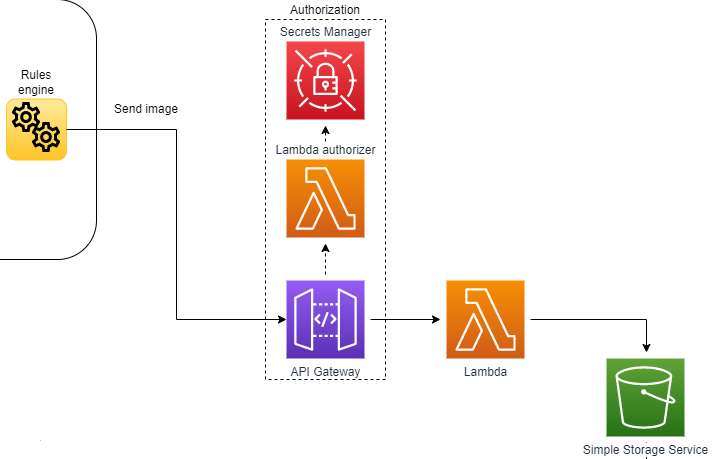
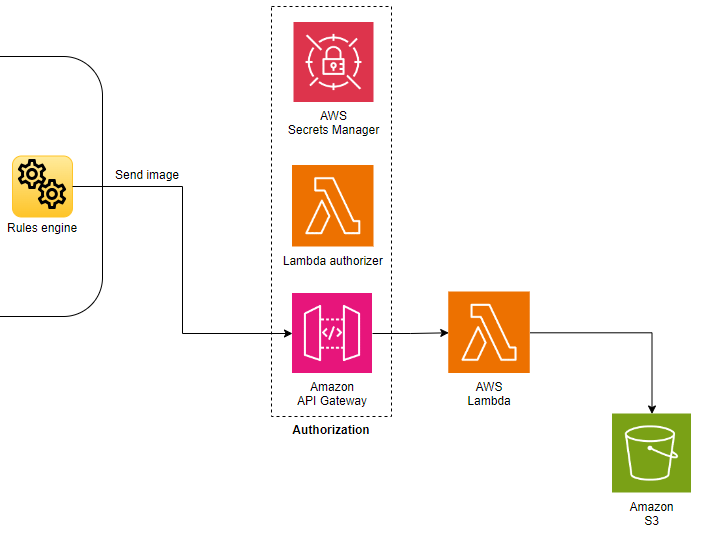
IPR and legal review (#4)
* wip

* wip

* wip

* Add files via upload

wip

* Add files via upload

wip

* Add files via upload

* Add files via upload

---------

diff --git a/README.md b/README.md
@@ -10,9 +10,9 @@
 - [Prerequisites](#prerequisites)
 - [Solution setup](#solution-setup)
     - [Camera image to Amazon S3 bucket](#camera-image-to-amazon-s3-bucket)
-    - [AWS IoT Core (MQTT broker) and MQTT client](#aws-iot-core-mqtt-broker-and-mqtt-client)
-    - [AWS PPE detection (inference)](#aws-ppe-detection-inference)
-    - [AXIS Object Analytics (Camera application) and event setup](#axis-object-analytics-camera-application-and-event-setup)
+    - [AWS IoT Core and MQTT client](#aws-iot-core-and-mqtt-client)
+    - [Amazon Rekognition PPE detection (inference)](#amazon-rekognition-ppe-detection-inference)
+    - [AXIS Object Analytics (camera application) and event setup](#axis-object-analytics-camera-application-and-event-setup)
     - [Strobe siren event and MQTT subscribe](#strobe-siren-event-and-mqtt-subscribe)
 - [Test and validation](#test-and-validation)
 - [Disclaimer](#disclaimer)
@@ -30,9 +30,9 @@ The architectural overview below illustrates the components (hardware and softwa
 
 > **Note**
 >
-> Some components can be replaced to get a solution that fits other use-cases. For example, replace AXIS Object Analytics with another application that triggers when an image should be sent to AWS. Or replace the Axis Strobe Siren with an Axis door station to change the output and result of the solution.
+> Some components can be replaced to get a solution that fits other use-cases. For example, replace AXIS Object Analytics with another application that triggers when an image should be sent to AWS. Or replace the Axis strobe siren with an Axis door station to change the output and result of the solution.
 >
-> Modifying the Lambda function that calls the Amazon Rekognition is also possible if the use case requires other detection types.
+> Modifying the AWS Lambda function that calls the Amazon Rekognition is also possible if the use case requires other detection types.
 
 ![Solution overview](assets/architecture-overview.png)
 
@@ -46,10 +46,10 @@ The architectural overview below illustrates the components (hardware and softwa
 
 The solution is divided into the sections below which will be described in detail during this tutorial.
 
-- Camera image to Amazon Simple Storage Service (S3) bucket
-- AWS IoT Core (MQTT broker) and MQTT client
-- AWS PPE detection (inference)
-- AXIS Object Analytics (Camera application) and event setup
+- Camera image to Amazon Simple Storage Service (Amazon S3) bucket
+- AWS IoT Core, acting as a MQTT broker, and MQTT client
+- Amazon Rekognition PPE detection (inference)
+- AXIS Object Analytics (camera application) and event setup
 - Strobe siren event and MQTT subscribe
 
 ![architecture](assets/architecture.png)\
@@ -59,21 +59,21 @@ The solution is divided into the sections below which will be described in detai
 
 The image below illustrates the upload of a camera image to an Amazon S3 bucket.
 
-![Image upload to amazon S3](assets/aws-image-upload.png)
+![Image upload to Amazon S3](assets/aws-image-upload.png)
 
 How to setup the Amazon S3 and the required peripheral services to handle the authentication is described here: [Sending images from a camera to Amazon S3](https://github.com/AxisCommunications/acap-integration-examples-aws/tree/main/images-to-aws-s3).
 
 > **Note** Follow the instructions up until the section called **Configure the camera**. After that, return back to this tutorial to setup the rest of the solution.
 
-### AWS IoT Core (MQTT broker) and MQTT client
+### AWS IoT Core and MQTT client
 
-In this section we will setup AWS IoT Core and connect it to the MQTT client in the Axis Strobe Siren.
+In this section we will setup AWS IoT Core and connect it to the MQTT client in the Axis strobe siren.
 
 ![AWS IoT Core](assets/aws-iot-core.png)
 
 #### Setup an AWS IoT Core thing
 
-1. Sign in to the [AWS Console](https://aws.amazon.com/console/) and search for **IoT Core**.
+1. Sign in to the [AWS Management Console](https://aws.amazon.com/console/) and search for **IoT Core**.
 2. Go to **Manage** > **All devices** > **Things** and click **Create things**.
 3. Select **Create single thing** and click **Next**.
 4. Enter a unique name and click **Next**.
@@ -94,13 +94,13 @@ In this section we will setup AWS IoT Core and connect it to the MQTT client in 
 8. Download the **Device certificate**, **Public key file**, **Private key file** and the **Root CA certificate**.
 
     ![download aws certificates](assets/aws-download-certificates.png)\
-    *Screenshot from AWS Console*
+    *Screenshot from AWS Management Console*
 
 9. Click **Done**.
 
 #### Setup MQTT client in Axis device
 
-In the Axis device, install the client and CA certificates to enable a secure MQTT connection to the AWS IoT Core MQTT broker:
+In the Axis device, install the client and CA certificates to enable a secure MQTT connection to the AWS IoT Core:
 
 1. Log in to the Axis device and go to **System** > **Security**.
 2. Click **Add certificate**.
@@ -114,7 +114,7 @@ In the Axis device, install the client and CA certificates to enable a secure MQ
 Next, configure the device's MQTT client:
 
 1. In the Axis device go to **System** > **MQTT**.
-2. In the **Host** field, enter the hostname for the AWS IoT Core MQTT broker. You can find the hostname (endpoint) to the MQTT broker in the AWS Console under **IoT Core** > **Settings**.
+2. In the **Host** field, enter the hostname for AWS IoT Core. You can find the hostname (device data endpoint) in the AWS Management Console under **IoT Core** > **Settings**.
 3. In the **Protocol** drop-down menu, select **MQTT over SSL** using default port **8883**.
 4. In the **Client certificate** field, select the previously uploaded client certificate.
 5. In the **CA certificate** field, select the previously uploaded CA certificate.
@@ -127,26 +127,26 @@ Here's an example of an **MQTT client** setup in an Axis device.
 ![axis device mqtt client settings](assets/axis-device-mqtt-client-settings.png)\
 *©2023 Axis Communications AB. All rights reserved.*
 
-### AWS PPE detection (inference)
+### Amazon Rekognition PPE detection (inference)
 
-This section explains how to setup and configure the Lambda function to grab an image from the Amazon S3 bucket, input the image to Amazon Rekognition and finally transfer the result of the detection (helmet on or off) to AWS IoT Core (MQTT broker).
+This section explains how to setup and configure the AWS Lambda function to grab an image from the Amazon S3 bucket, input the image to Amazon Rekognition and finally transfer the result of the detection (helmet on or off) to AWS IoT Core.
 
-![Lambda and Amazon Rekognition](assets/aws-lambda_rekognition.png)
+![AWS Lambda and Amazon Rekognition](assets/aws-lambda_rekognition.png)
 
-#### Create a Lambda function
+#### Create an AWS Lambda function
 
-1. Sign in to the [AWS Console](https://aws.amazon.com/console/) and search for Lambda.
-2. Create a new Lambda function.
+1. Sign in to the [AWS Management Console](https://aws.amazon.com/console/) and search for Lambda.
+2. Create a new AWS Lambda function.
     - Select Author from scratch
     - Set a name for the function
     - Select Node.js 14.x as runtime
     - Select x86_64 as architecture.
     - Click Create function.
 
-#### Setup the Lambda function
+#### Setup the AWS Lambda function
 
 1. Add a trigger to the Amazon S3 bucket where you store the uploaded images.
-2. Add below code to the `index.js` file within your Lambda function.
+2. Add below code to the `index.js` file within your AWS Lambda function.
 
     ```javascript
     const AWS = require("aws-sdk");
@@ -204,14 +204,14 @@ This section explains how to setup and configure the Lambda function to grab an 
     };
     ```
 
-3. Go to **Configuration** of the Lambda function and setup two **Environment variables**. One for the bucket name and one for the AWS IoT Core endpoint.
+3. Go to **Configuration** of the AWS Lambda function and setup two **Environment variables**. One for the bucket name and one for the AWS IoT Core endpoint.
 
 ![AWS Lambda, Environment variables](assets/aws-env-var.png)\
-*Screenshot from AWS Console*
+*Screenshot from AWS Management Console*
 
-#### Lambda function permissions
+#### AWS Lambda function permissions
 
-Finally, you need to setup correct permissions for the Lambda function to access the Amazon S3 bucket, AWS IoT Core (MQTT broker) and Amazon Rekognition.
+Finally, you need to setup correct permissions for the AWS Lambda function to access the Amazon S3 bucket, AWS IoT Core and Amazon Rekognition.
 
 1. Go to **Configuration** > **Permissions** and click on the **Execution role**.
 2. In the **IAM** (Identity and Access Management) console you should add permissions for the three services:
@@ -223,12 +223,12 @@ Finally, you need to setup correct permissions for the Lambda function to access
 5. Click **next** > **next** until you can set a name for your policy.
 6. Save the policy and attach the policy to your role.
 
-Create two more policies (one for Amazon Rekognition and one for AWS IoT Core) and attach them to your Lambda function role.
+Create two more policies (one for Amazon Rekognition and one for AWS IoT Core) and attach them to your AWS Lambda function role.
 
 - The Amazon Rekognition policy should have at least read access to action: `rekognition:DetectProtectiveEquipment`
-- The AWS IoT policy should have write access to action: `iot:Publish`
+- The AWS IoT Core policy should have write access to action: `iot:Publish`
 
-### AXIS Object Analytics (Camera application) and event setup
+### AXIS Object Analytics (camera application) and event setup
 
 #### Line Crossing in AXIS Object Analytics
 
@@ -240,13 +240,13 @@ Create two more policies (one for Amazon Rekognition and one for AWS IoT Core) a
 
 #### Axis camera event setup
 
-Now it is time to setup a HTTPS recipient to the AWS API Gateway and an event that is used as a trigger when an image should be uploaded.
+Now it is time to setup a HTTPS recipient to the Amazon API Gateway and an event that is used as a trigger when an image should be uploaded.
 
 1. In the camera navigate to **System** > **Events**.
-2. In the **Recipients** tab click the plus sign to add the API Gateway recipient URL.
+2. In the **Recipients** tab click the plus sign to add the Amazon API Gateway recipient URL.
     > **Note** Username and password is not needed here, the authentication is handled via the access token `accessToken` that you will enter in the **Rules** section under **Custom CGI parameters**.
 3. In the **Rules** tab click the plus sign to add a new rule.
-    - Select an condition for when to send an image to Amazon S3. E.g. **AXIS Object Analytics: Scenario x**.
+    - Select a condition for when to send an image to Amazon S3. E.g. **AXIS Object Analytics: Scenario x**.
     - Set post buffer to 1 second and the **Maximum images** to 1.
     - Add the `accessToken` under **Custom CGI parameters**. E.g. `accessToken=abcdefghijklmnopqrstuvxyz123`
 
@@ -259,7 +259,7 @@ This section explains how to setup MQTT subscribe in the strobe siren and how to
 #### MQTT subscribe setup
 
 1. In the strobe siren under **System** > **MQTT** go to **MQTT subscriptions** and add a new subscription.
-2. Set a MQTT topic that correspond to the Rekognition Lambda function topic. E.g. `ppe/alarm/on` and `ppe/alarm/off`.
+2. Set a MQTT topic that correspond to the Amazon Rekognition AWS Lambda function topic. E.g. `ppe/alarm/on` and `ppe/alarm/off`.
     > **Note** Remember to uncheck the tick box “Use default topic prefix”.
 3. Repeat the subscription configuration for one more color so that the trigger from Amazon Rekognition can change color based on PPE detection.
 
@@ -278,16 +278,16 @@ This section explains how to setup MQTT subscribe in the strobe siren and how to
 
 Test the solution by triggering the line crossing in AXIS Object Analytics. The output should be a red or green light on the Axis strobe siren depending if you have a helmet on or not.
 
-To investigate the MQTT messages on the AWS IoT Core MQTT broker you can login to the Amazon console and go to AWS IoT. Here you can see all the traffic on the broker if you subscribe with the wildcard `#`.
+To investigate the MQTT messages sent to AWS IoT Core you can login to the AWS Management Console and go to AWS IoT Core. Here you can see all the messages if you subscribe with the wildcard `#`.
 
 ![AWS MQTT test client](assets/aws-mqtt-test-client.png)\
-*Screenshot from AWS Console*
+*Screenshot from AWS Management Console*
 
 ## Disclaimer
 
 <!-- textlint-disable -->
 
-This document and its content are provided courtesy of Axis and all rights to the document shall remain vested in Axis Communications AB. AXIS COMMUNICATIONS, AXIS, ARTPEC and VAPIX are registered trademarks of Axis AB in various jurisdictions. All other trademarks are the property of their respective owners. Amazon Web Services, AWS and the Powered by AWS logo are trademarks of Amazon.com, Inc. or its affiliates.
+This document and its content are provided courtesy of Axis and all rights to the document shall remain vested in Axis Communications AB. AXIS COMMUNICATIONS, AXIS, ARTPEC and VAPIX are registered trademarks of Axis AB in various jurisdictions. Amazon Web Services, AWS and the Powered by AWS logo, Amazon Simple Storage Service (Amazon S3), Amazon Rekognition and AWS Lambda are trademarks of Amazon.com, Inc. or its affiliates. All other trademarks are the property of their respective owners, and we are not affiliated with, endorsed or sponsored by them or their affiliates.
 
 As described in this document, you may be able to connect to, access and use third party products, web sites, example code, software or services (“Third Party Services”). You acknowledge that any such connection and access to such Third Party Services are made available to you for convenience only. Axis does not endorse any Third Party Services, nor does Axis make any representations or provide any warranties whatsoever with respect to any Third Party Services, and Axis specifically disclaims any liability or obligations with regard to Third Party Services. The Third Party Services are provided to you in accordance with their respective terms and conditions, and you alone are responsible for ensuring that you (a) procure appropriate rights to access and use any such Third Party Services and (b) comply with the terms and conditions applicable to its use.
 
